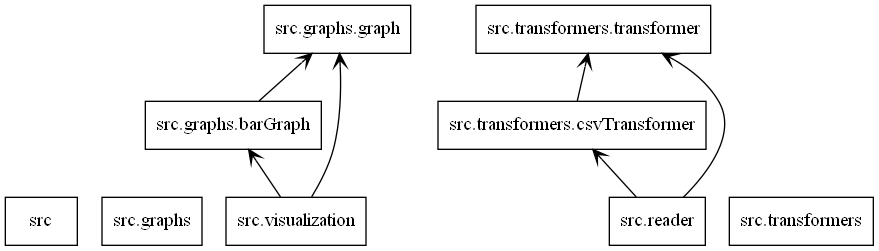
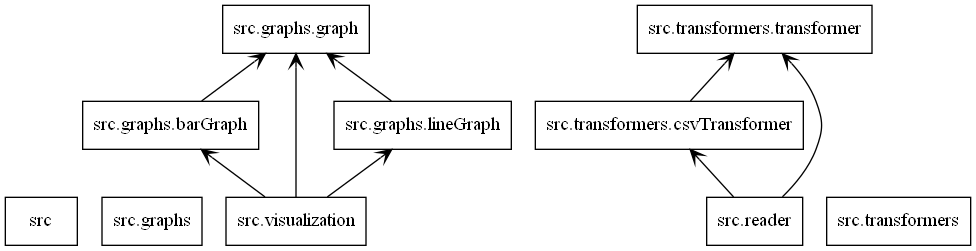
Update README.md with new class and package diagrams.

diff --git a/main.py b/main.py
@@ -31,7 +31,7 @@ def main() -> None:
     def applyExtraConfig(plt):
         plt.xlabel('País')
         plt.ylabel('Coste')
-        plt.xticks(rotation=60, ha='right', fontsize=6)
+        plt.xticks(rotation=60, ha='right', fontsize=8)
     visualization.show(post=applyExtraConfig)
 
 if __name__ == '__main__':
